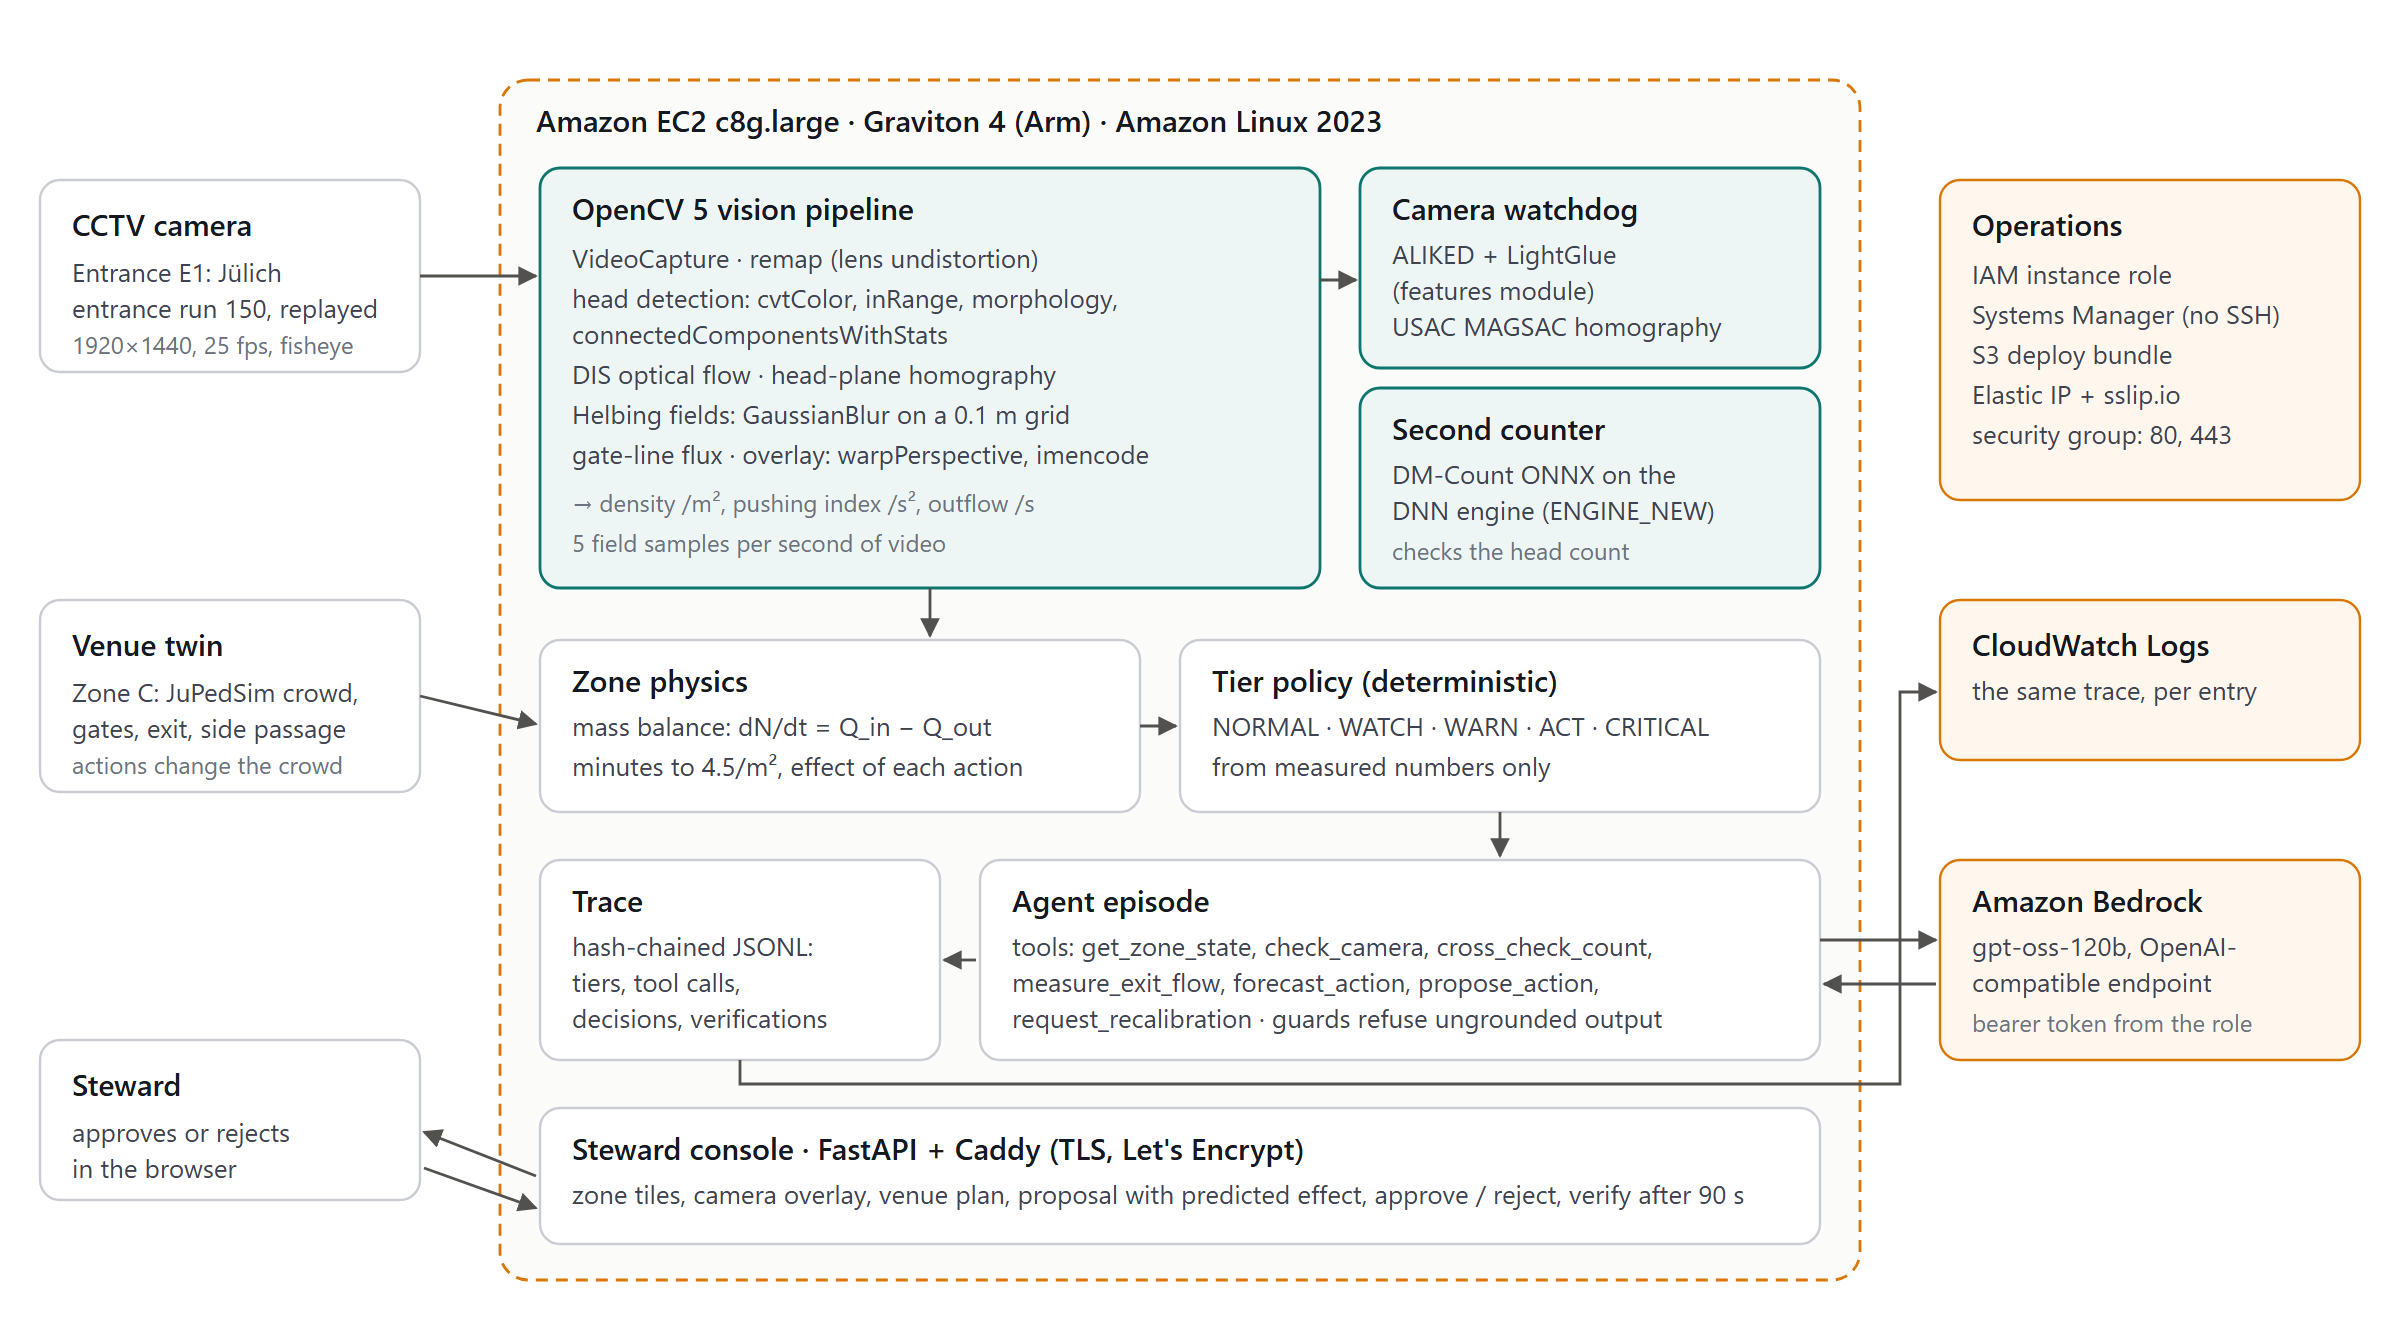
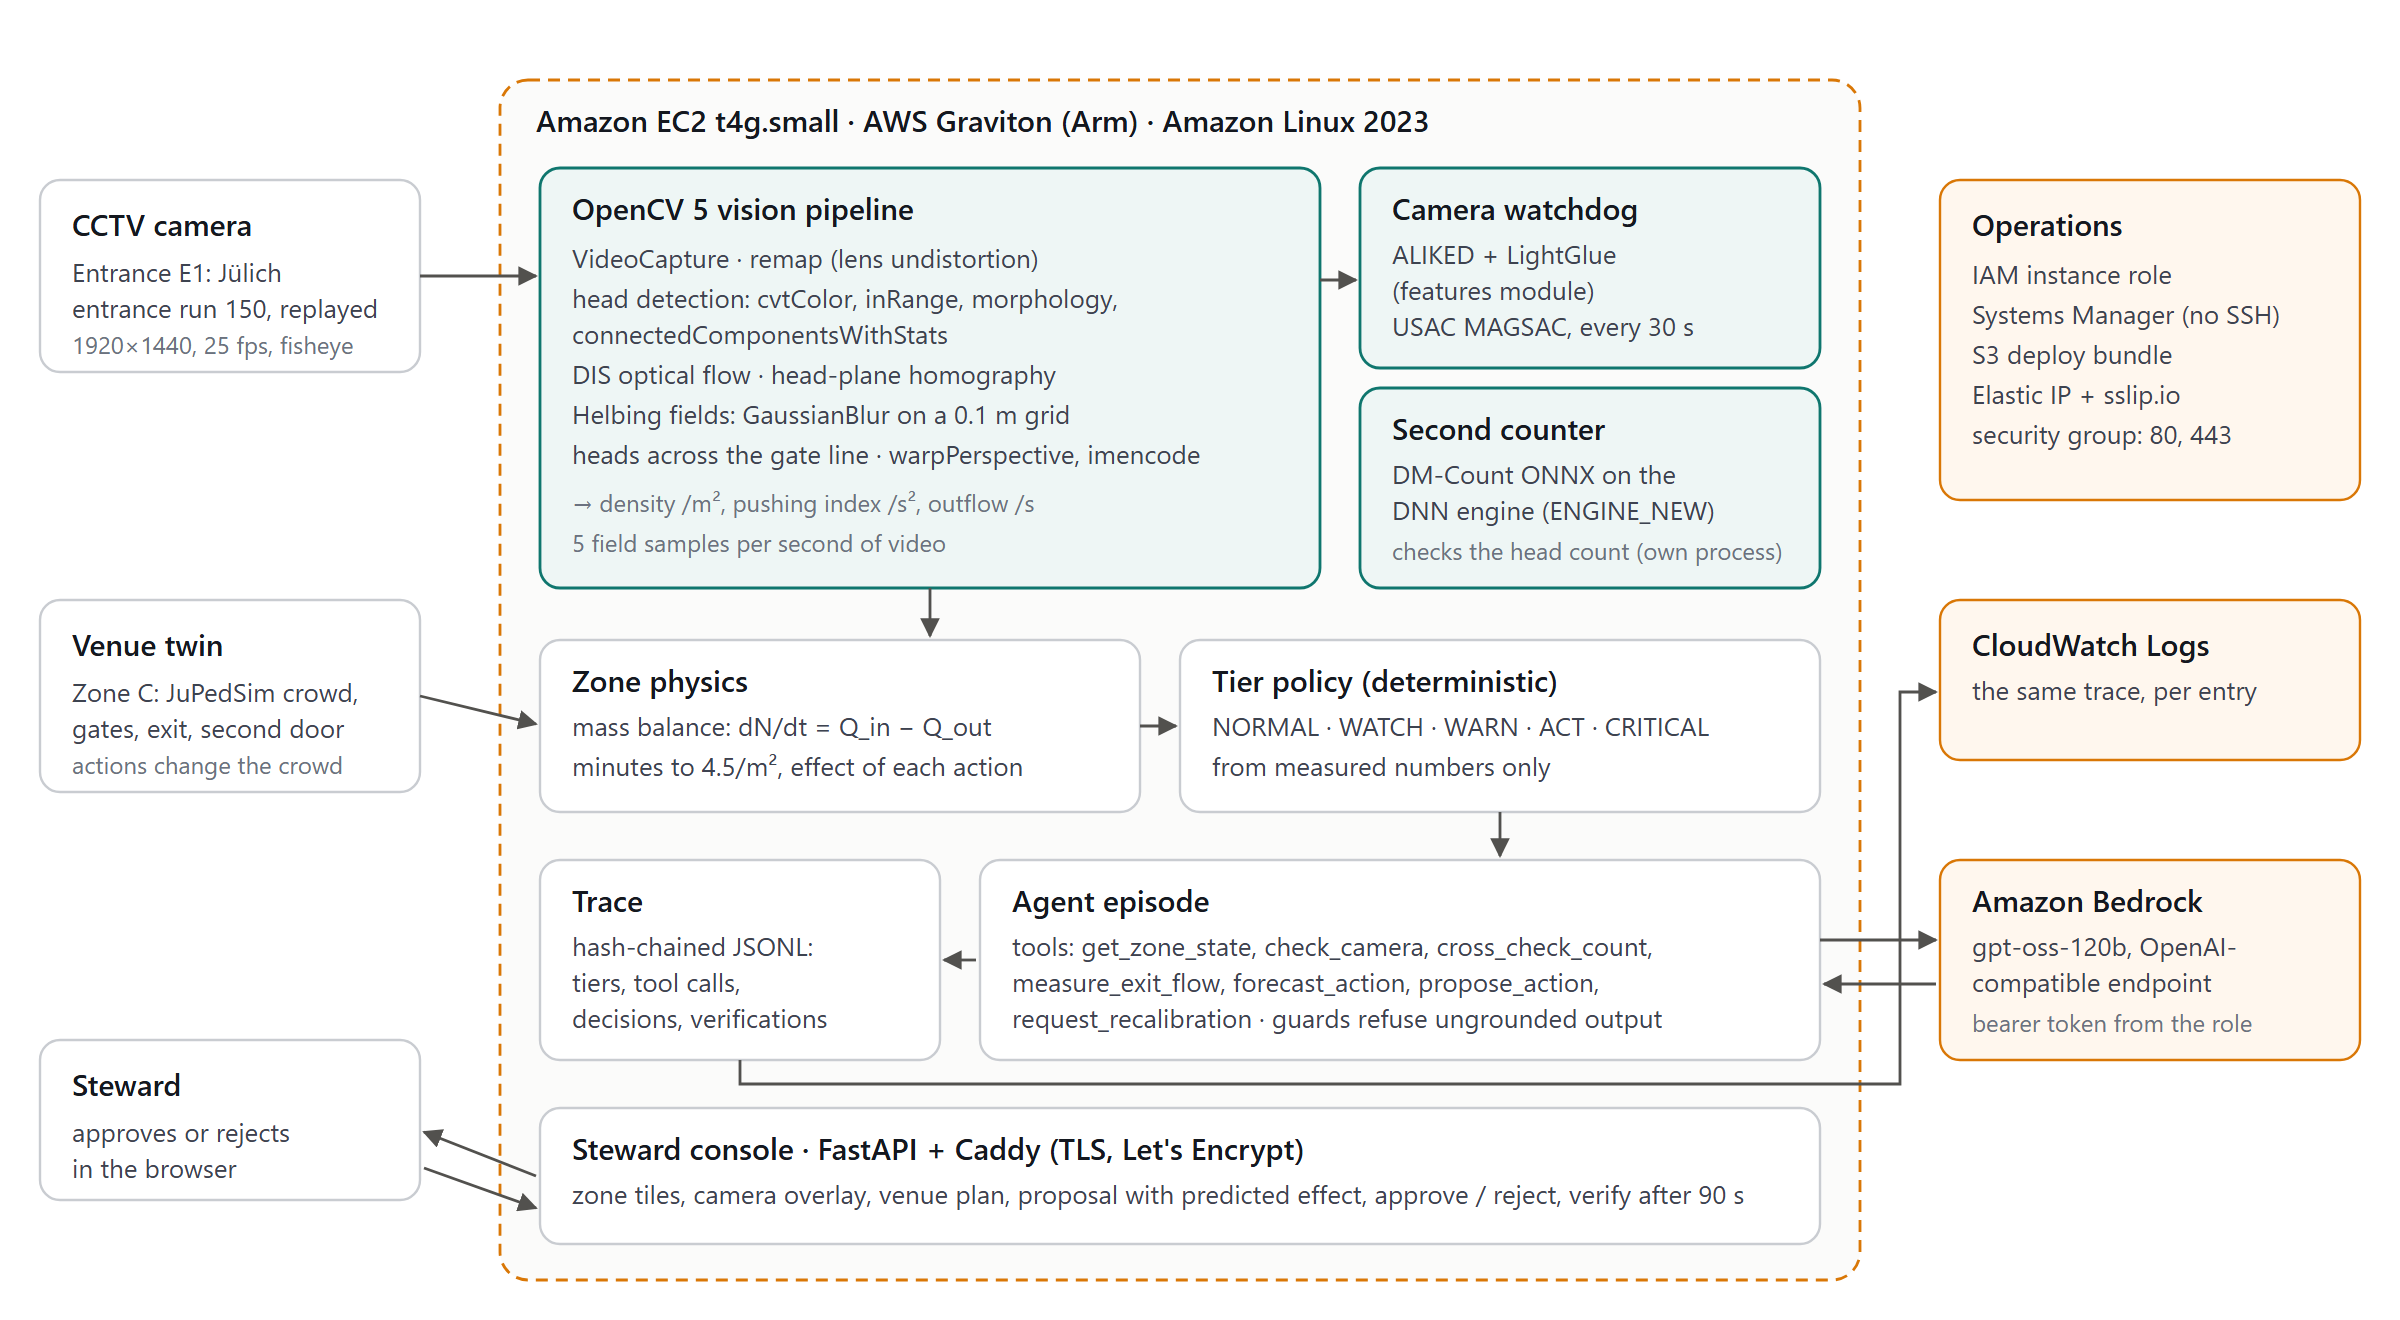
Steps follow the pending proposal; diagram matches deployment

diff --git a/src/breathingroom/web/app.js b/src/breathingroom/web/app.js
@@ -197,7 +197,9 @@ function summarise(c) {
 }
 
 function renderSteps(snap) {
-  const ep = snap.episodes.slice(-1)[0];
+  // the investigation behind the proposal waiting for the steward, else the latest one
+  const pending = snap.proposals.find((p) => p.status === "pending");
+  const ep = (pending && snap.episodes.filter((e) => e.zone === pending.zone && e.done).slice(-1)[0]) || snap.episodes.slice(-1)[0];
   $("#stepzone").textContent = ep ? `· ${ep.zone}` : "";
   $("#steps").innerHTML = !ep ? `<li><span></span><span class="res">Nothing to investigate yet.</span></li>` :
     ep.calls.map((c, i) => `<li><span class="n">${i + 1}</span><span><span class="tool">${esc(c.tool.replaceAll("_", " "))}</span><br><span class="res">${esc(summarise(c))}</span></span><span class="ms">${Math.round(c.ms)} ms</span></li>`).join("");

diff --git a/src/breathingroom/twin.py b/src/breathingroom/twin.py
@@ -177,7 +177,7 @@ class Venue:
 
 
 def polygon_outline() -> dict:
-    """Floor plan outline for the console (street, exits, side passage, zone, gates)."""
+    """Floor plan outline for the console (street, exits, second door, zone, gates)."""
     def coords(p: Polygon):
         return [list(map(float, c)) for c in p.exterior.coords]
     return {
